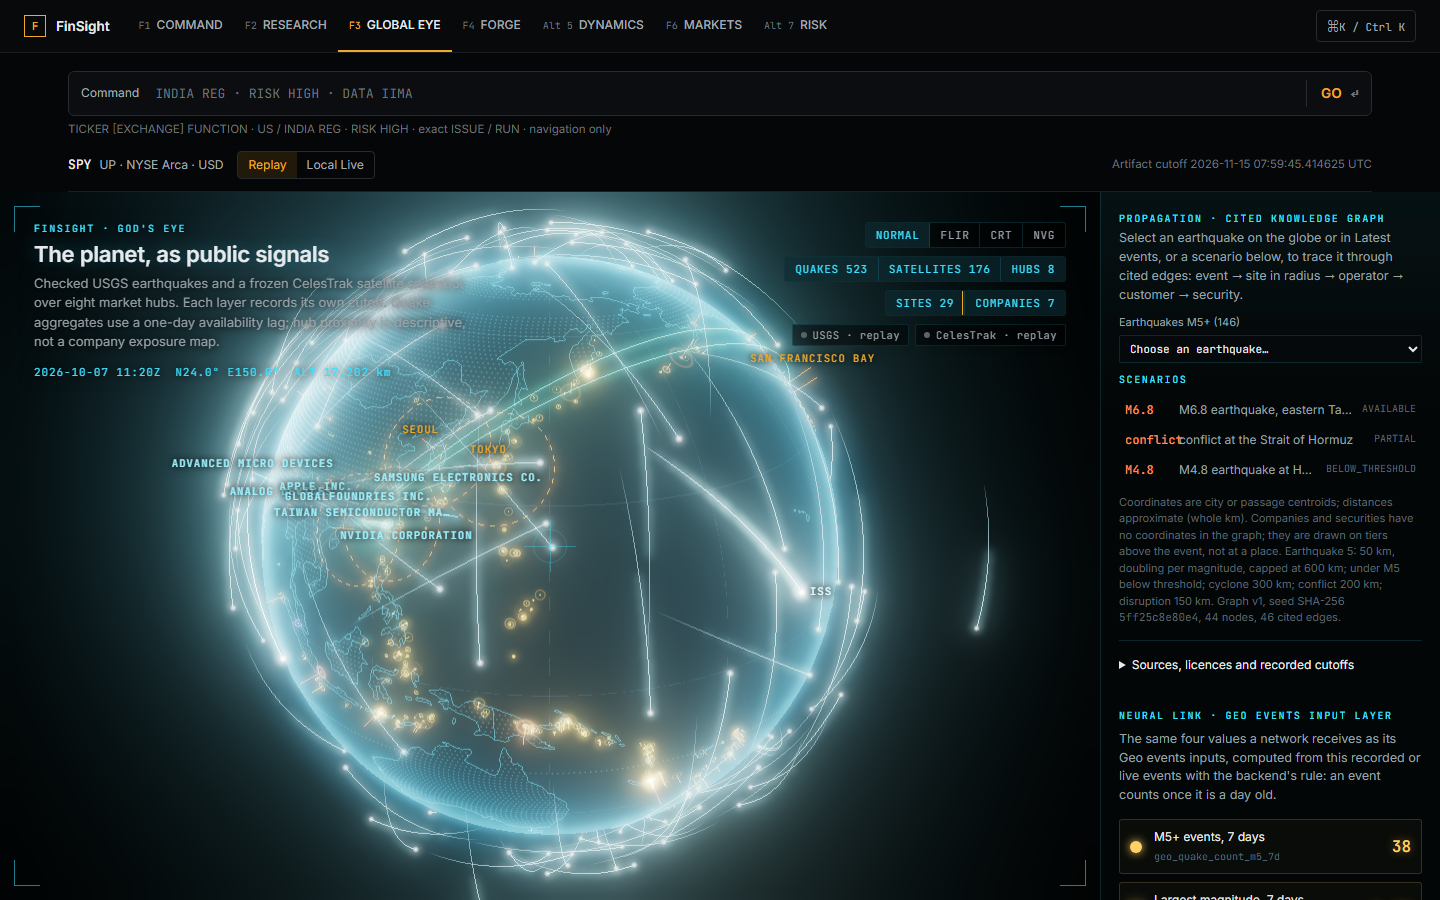
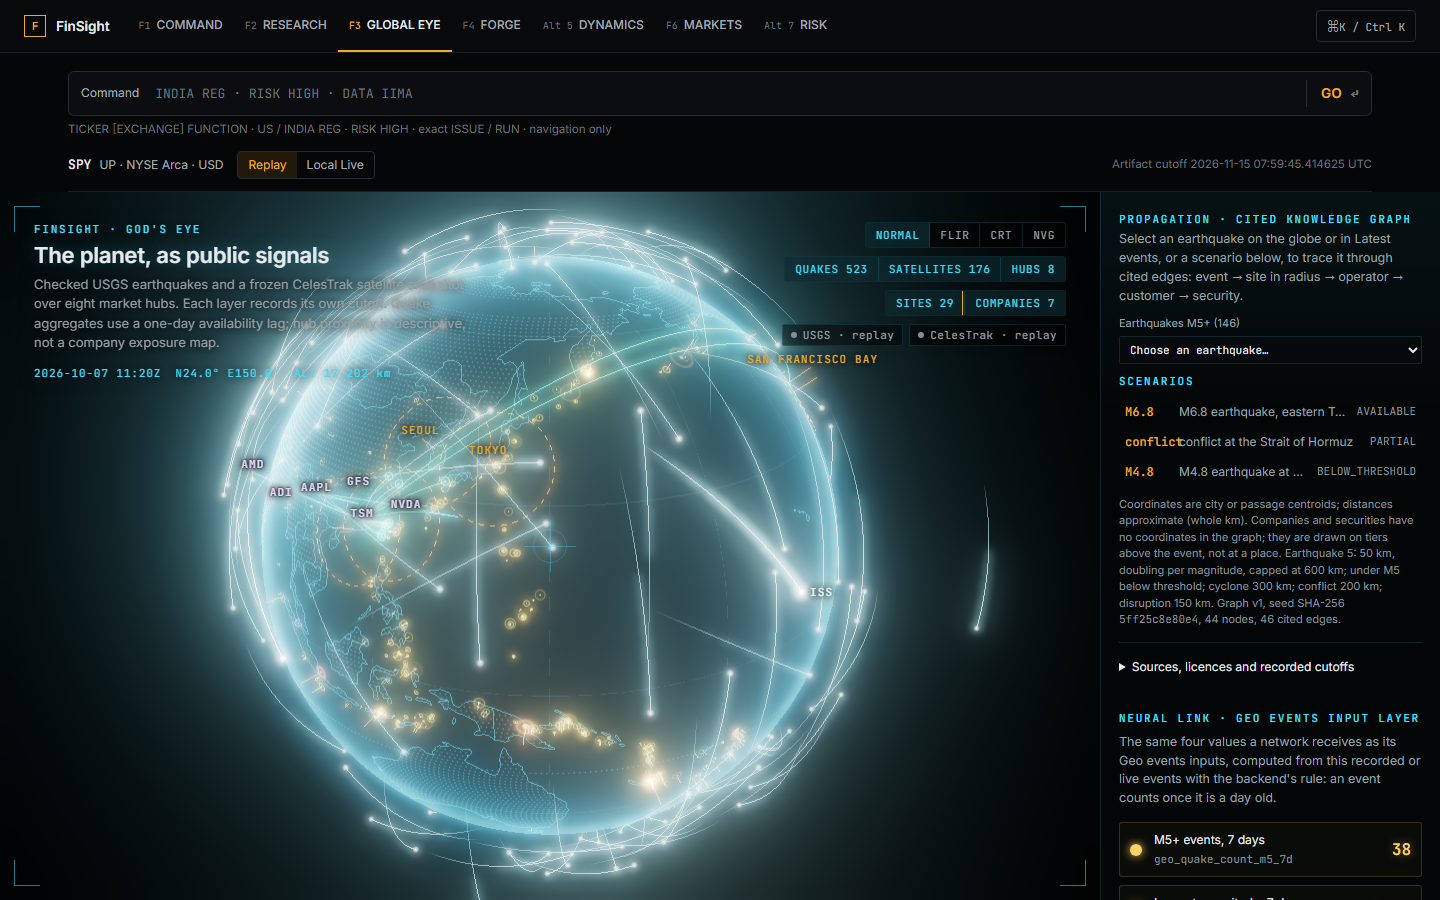
docs(globe): record the review fixes and refresh U3 screenshots

diff --git a/docs/u3-global-eye-v2.md b/docs/u3-global-eye-v2.md
@@ -13,7 +13,9 @@ or a source; every hop is an edge of `src/geo/graph/seed/v1.json` and every answ
   and **Companies**. All are buttons with `aria-pressed`, reachable by Tab and Enter.
 - **Companies have no coordinates in the graph.** They are drawn on tiers above the globe, never at
   a place: the operator above its largest site cluster, tethered to each site it operates; the
-  other companies ring it, joined only by cited `supplies` edges.
+  other companies ring it, joined only by cited `supplies` edges. On the globe only tickers are
+  labelled; company names are in the panel. While a selected event's chain is drawn, the
+  Companies button is disabled and its title says why (the chain is drawn in its place).
 - **Propagation.** Select an earthquake (on the globe, in Latest events, or in the *Earthquakes M5+*
   picker) or a scenario. The panel states the status in words, the declared radius, the nearest
   sourced site, the sites in the radius and how many cited chains exist. Each reached security is
@@ -21,10 +23,24 @@ or a source; every hop is an edge of `src/geo/graph/seed/v1.json` and every answ
   with its basis (`filed`, `retrieved`, …), page or section, and the quoted sentence.
 - **Arcs.** Event → each site in the radius, then site → operator → customer → security for the best
   chain of every reached security. **Brightness encodes one named value per arc**: hop confidence
-  for a cited edge, proximity `1 − distance / radius` for event → site. Hue names the edge type; line
-  width is constant. The legend shows the brightness ramp. The yellow ring is the declared radius.
+  for a cited edge, proximity `1 − distance / radius` for event → site. One function, `arcRgb()`,
+  maps (edge type, value) to an sRGB colour: the hue's linear light × (0.12 + 0.88 × value). The
+  scene sets exactly that colour and the legend paints exactly that colour; the verifier checks
+  both against its own copy of the rule. Hue names the edge type; line width is constant. Arcs are
+  drawn with additive blending, so where two arcs overlap the crossing looks brighter than either
+  value, and the scene's tone mapping and bloom shift perceived brightness slightly. The ring is the
+  declared radius.
+- **Scenarios look different.** A scenario's arcs use an amber family of hues, a solid amber
+  *Scenario · hypothetical — not a recorded event* chip sits on the globe and the same tag heads
+  the panel; satellite orbits dim and the hero copy fades while it is drawn.
 - **Statuses** are always words, never an empty `AVAILABLE`: AVAILABLE, PARTIAL, NO_COVERAGE,
   BELOW_THRESHOLD, UNAVAILABLE, each with `propagate()`'s reason.
+- **Missing is not zero.** For UNAVAILABLE and BELOW_THRESHOLD `propagate()` never looks at sites
+  or chains, so the projection writes no count and the panel says *not evaluated* for sites in
+  radius, cited chains and arcs drawn.
+- **Small screens.** At 768 px and below the status and reached securities come first, above a
+  globe capped at 44svh, with 16 px gutters; labels that would be cut at the stage edge are left
+  out.
 - **Precision.** Coordinates are city or passage centroids; distances are whole km and approximate.
 
 ## Point in time, retrospective and scenarios
@@ -59,8 +75,14 @@ coordinates and magnitudes are the fixtures of `tests/test_geo_graph.py`:
 - The projection records the seed's SHA-256 over its LF bytes (the Git blob form, so Windows
   checkouts with CRLF agree with CI) and the Replay input's URL, SHA-256 and cutoff.
 - **Local Live**: selecting a live quake calls `POST /geo/graph/propagate` through the normal `api()`
-  client, behind the session gate, as of now. A refusal (e.g. 401) is shown as UNAVAILABLE with the
-  reason. Layers and scenarios still come from the pinned projection.
+  client, behind the session gate. The request carries no `as_of`; `propagate()` cuts at the
+  earlier of the quake's time and `as_of`, so the answer is the point-in-time one: only
+  relationships sourced by the quake's time. A refusal (e.g. 401) or a malformed answer is shown as
+  UNAVAILABLE with the reason. The request is keyed on the quake's id and values, so a feed refresh
+  does not resend it. Layers and scenarios still come from the pinned projection.
+- `.gitattributes` marks `frontend-v2/public/geo/projection.*.json` as `-text`. Today's compact JSON
+  has no newline bytes, so this only guards a future pretty-printed export against CRLF
+  conversion changing the pinned bytes on Windows checkouts.
 
 ## Regenerating
 
@@ -83,8 +105,14 @@ python scripts/export_geo_projection.py --check  # drift guard: exit 1 if commit
   - browser (`--url`, Chromium, 1440 and 390): Sites and Companies toggle by keyboard and the drawn
     counts follow; the Taiwan scenario draws arcs and lists every security with each hop's
     mechanism, confidence, URL, date and basis, quote and page; PARTIAL, BELOW_THRESHOLD,
-    UNAVAILABLE and NO_COVERAGE render in words; tampered, missing and oversized projections render
-    UNAVAILABLE with the reason; Replay makes no non-origin or API request; no horizontal scroll.
+    UNAVAILABLE and NO_COVERAGE render in words, with *not evaluated* counts where nothing was
+    evaluated; the scenario tag, globe chip and retrospective labels render; arc and legend colours
+    match the mapping (a changed mapping fails); status and securities are above the fold at 390;
+    tampered, missing and oversized projections render UNAVAILABLE with the reason; Replay makes no
+    non-origin or API request; no horizontal scroll.
+  - mocked Local Live (route interception of `POST /geo/graph/propagate`): a 401 and a malformed
+    answer each read UNAVAILABLE in words, switching quakes shows each quake's own answer, and one
+    request is sent per selection.
   - Wired into CI: the static loop and the `browser-agents-shell-plugins-data-research` shard.
 - Screenshots: `docs/screenshots/u3-globe-{layers,propagation,unavailable}-{1440,390}.png`.
 
@@ -92,5 +120,6 @@ python scripts/export_geo_projection.py --check  # drift guard: exit 1 if commit
 
 - Seed breadth (more companies, `ships_through` edges, ports): no recorded Replay quake reaches a
   sourced site, so recorded quakes draw only their radius until the seed grows.
-- Tier placement of companies and securities is schematic; labels can crowd at 390 px.
-- Live mode reuses the projection's node names; a node only the live backend knows is shown by id.
+- Tier placement of companies and securities is schematic.
+- Live mode reuses the projection's node names; a node only the live backend knows is shown by its
+  id with type `unknown`.
